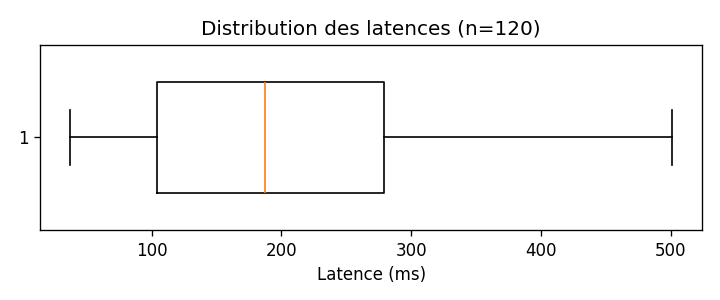
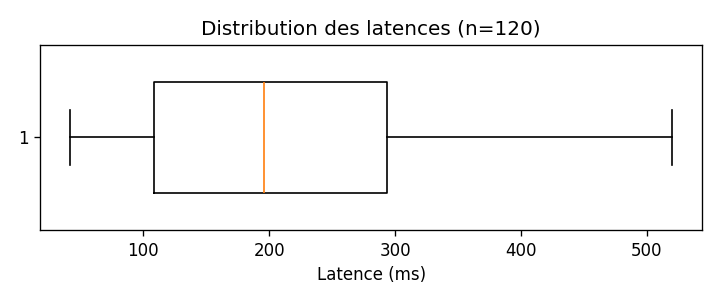
feat(reco): category/difficulty derives du catalogue + preferences de seances respectees
- MSPR-DB n'expose ni category ni difficulty : les constantes (beginner,
  None) rendaient goal_match et level_match identiques pour tous les
  exercices, l'objectif sante n'influencait pas le classement. Derivation
  category (cardio vs strength via muscles cibles) et difficulty
  (heuristique par equipement requis) au chargement du catalogue
- sessions_per_week et duration_min_per_session du profil etaient
  ignores (shape fige par objectif) : les preferences priment desormais,
  bornees (1-7 seances, 3-8 exercices, ~12 min/exercice)
- dataset regenere + RandomForest reentraine (oracle rule-based modifie,
  cf CLAUDE.md) : F1 0.997, eval p95 439 ms, violations 0 %, metriques
  docs/ recalculees

diff --git a/reco-fitness/app/services/exercise_catalog.py b/reco-fitness/app/services/exercise_catalog.py
@@ -36,11 +36,51 @@ class ExerciseFilters:
     category: str | None = None
 
 
+# MSPR-DB n'expose ni category ni difficulty : avec des constantes ("beginner",
+# None), goal_match et level_match etaient identiques pour tous les exercices
+# et l'objectif sante n'influencait pas le classement. On derive donc :
+# - category depuis les muscles cibles (cardio vs strength)
+# - difficulty depuis l'equipement requis (heuristique simple, documentee)
+_BEGINNER_EQUIPMENT = {
+    "body weight",
+    "band",
+    "resistance band",
+    "stability ball",
+    "bosu ball",
+    "medicine ball",
+    "rope",
+    "roller",
+    "wheel roller",
+    "assisted",
+}
+_ADVANCED_EQUIPMENT = {
+    "barbell",
+    "ez barbell",
+    "olympic barbell",
+    "trap bar",
+    "weighted",
+}
+
+
+def _derive_category(target_muscles: list[str], body_parts: list[str]) -> str:
+    if "cardiovascular system" in target_muscles or "cardio" in body_parts:
+        return "cardio"
+    return "strength"
+
+
+def _derive_difficulty(equipment: list[str]) -> str:
+    eqs = {e for e in equipment if e != "none"}
+    if not eqs or eqs <= _BEGINNER_EQUIPMENT:
+        return "beginner"
+    if eqs & _ADVANCED_EQUIPMENT:
+        return "advanced"
+    return "intermediate"
+
+
 def _orm_to_dataclass(row: ExerciseORM) -> Exercise:
-    # difficulty, category, description, duration_seconds, calories_per_minute ne sont
-    # pas exposes par MSPR-DB (table exercises issue de l'ETL ExerciseDB). On utilise
-    # getattr pour rester tolerant aux mocks de tests qui peuvent les setter, et on
-    # fournit des defauts neutres en production (scoring rule-based + ML tolerent).
+    # description, duration_seconds, calories_per_minute ne sont pas exposes
+    # par MSPR-DB (table exercises issue de l'ETL ExerciseDB). On utilise
+    # getattr pour rester tolerant aux mocks de tests qui peuvent les setter.
     raw_instructions = getattr(row, "instructions", None)
     if isinstance(raw_instructions, str):
         instructions_list = [s.strip() for s in raw_instructions.split(".") if s.strip()]
@@ -48,19 +88,22 @@ def _orm_to_dataclass(row: ExerciseORM) -> Exercise:
         instructions_list = raw_instructions
     else:
         instructions_list = []
+    target_muscles = row.target_muscles or []
+    equipment = row.equipment or []
+    body_parts = getattr(row, "body_parts", None) or []
     return Exercise(
         id=row.id,
         name=row.name,
-        target_muscles=row.target_muscles or [],
-        equipment=row.equipment or [],
-        difficulty=getattr(row, "difficulty", None) or "beginner",
-        category=getattr(row, "category", None),
+        target_muscles=target_muscles,
+        equipment=equipment,
+        difficulty=getattr(row, "difficulty", None) or _derive_difficulty(equipment),
+        category=getattr(row, "category", None) or _derive_category(target_muscles, body_parts),
         description=getattr(row, "description", None),
         instructions=instructions_list,
         duration_seconds=getattr(row, "duration_seconds", None),
         calories_per_minute=getattr(row, "calories_per_minute", None),
         gif_url=row.gif_url,
-        body_parts=getattr(row, "body_parts", None) or [],
+        body_parts=body_parts,
     )
 
 

diff --git a/reco-fitness/app/services/workout_program_orchestrator.py b/reco-fitness/app/services/workout_program_orchestrator.py
@@ -31,13 +31,42 @@ class WorkoutProgram:
 
 
 # Mapping goal -> (sessions_per_week, exercises_per_session, premium_duration_weeks)
-# Free force toujours duration_weeks=2 (cf PRD Q4).
+# Free force toujours duration_weeks=2 (cf PRD Q4). sessions et exercices ne
+# servent que de repli : les preferences du profil (sessions_per_week,
+# duration_min_per_session) priment quand elles sont presentes.
 _GOAL_SHAPE: dict[str, tuple[int, int, int]] = {
     "fat_loss": (4, 8, 4),
     "muscle_strength": (4, 6, 6),
     "endurance": (5, 6, 6),
     "general_health": (3, 6, 4),
 }
+# ~12 min par exercice (echauffement, series, repos), bornes de securite.
+_MIN_EXERCISES_PER_SESSION = 3
+_MAX_EXERCISES_PER_SESSION = 8
+_MAX_SESSIONS_PER_WEEK = 7
+
+
+def _apply_preferences(
+    profile: FitnessProfileRequest,
+    sessions_per_week: int,
+    exercises_per_session: int,
+) -> tuple[int, int]:
+    """Le programme doit refleter ce que le profil affiche : seances/semaine
+    et duree de seance choisies par l'utilisateur, bornees."""
+    prefs = getattr(profile, "preferences", None)
+    if prefs is None:
+        return sessions_per_week, exercises_per_session
+    if prefs.sessions_per_week:
+        sessions_per_week = max(1, min(_MAX_SESSIONS_PER_WEEK, prefs.sessions_per_week))
+    if prefs.duration_min_per_session:
+        exercises_per_session = max(
+            _MIN_EXERCISES_PER_SESSION,
+            min(
+                _MAX_EXERCISES_PER_SESSION,
+                int(prefs.duration_min_per_session / 12 + 0.5),
+            ),
+        )
+    return sessions_per_week, exercises_per_session
 _FREE_DURATION_WEEKS = 2
 _TOP_N_CANDIDATES = 20
 # Poids de fusion : rule-based et ML pesent autant. Si besoin de tuning, deporter en data/.
@@ -220,6 +249,9 @@ def recommend_free(
     """Tier free : scoring rule-based seul, programme de 2 semaines."""
     profile = prepare_profile(profile)
     sessions_per_week, exercises_per_session, _ = _shape_for(profile.health_goal_fitness)
+    sessions_per_week, exercises_per_session = _apply_preferences(
+        profile, sessions_per_week, exercises_per_session
+    )
     eligible = [ex for ex in catalog if passes_hard_filters(ex, profile)]
     ranked = sorted(
         _shuffled(eligible, rng),
@@ -272,6 +304,9 @@ def recommend_premium(
     sessions_per_week, exercises_per_session, duration_weeks = _shape_for(
         profile.health_goal_fitness
     )
+    sessions_per_week, exercises_per_session = _apply_preferences(
+        profile, sessions_per_week, exercises_per_session
+    )
     return _structure_program(
         ranked=_hybrid_ranked(profile, history, catalog, rng),
         duration_weeks=duration_weeks,
@@ -310,6 +345,9 @@ def recommend_premium_plus(
     """
     base_sessions, exercises_per_session, duration_weeks = _shape_for(
         profile.health_goal_fitness
+    )
+    base_sessions, exercises_per_session = _apply_preferences(
+        profile, base_sessions, exercises_per_session
     )
     sessions_per_week = max(
         _MIN_SESSIONS_PER_WEEK,

diff --git a/reco-fitness/tests/unit/test_workout_program_orchestrator.py b/reco-fitness/tests/unit/test_workout_program_orchestrator.py
@@ -57,11 +57,11 @@ class TestRecommendFree:
         assert program.duration_weeks == 2
         assert program.scoring_strategy == "rule_based"
         assert len(program.weeks) == 2
-        # fat_loss -> 4 seances/sem, 8 ex/seance (mapping module)
+        # Preferences par defaut du profil : 3 seances/sem, 45 min -> 4 ex/seance
         for week in program.weeks:
-            assert len(week) == 4
+            assert len(week) == 3
             for session in week:
-                assert len(session) == 8
+                assert len(session) == 4
                 for exercise in session:
                     assert isinstance(exercise, Exercise)
 
@@ -256,14 +256,15 @@ class TestRecommendPremium:
 
         program = orchestrator.recommend_premium(profile, history=[], catalog=catalog)
 
-        # muscle_strength : 6 semaines, 4 seances/sem, 6 ex/seance (mapping module)
+        # muscle_strength : 6 semaines (mapping module). Seances et exercices
+        # suivent les preferences par defaut du profil : 3 seances, 4 ex.
         assert program.duration_weeks == 6
         assert program.scoring_strategy == "hybrid_rank_fusion"
         assert len(program.weeks) == 6
         for week in program.weeks:
-            assert len(week) == 4
+            assert len(week) == 3
             for session in week:
-                assert len(session) == 6
+                assert len(session) == 4
 
     def test_top_candidates_are_capped_at_twenty(self):
         # Catalogue de 100 ex. La fusion Top-N=20 ne peut selectionner qu'au plus
@@ -315,9 +316,9 @@ class TestRecommendPremiumPlus:
         )
 
         assert program.scoring_strategy == "hybrid_rank_fusion"
-        # muscle_strength : 4 seances/sem nominales
+        # Preferences par defaut : 3 seances/sem nominales
         for week in program.weeks:
-            assert len(week) == 4
+            assert len(week) == 3
 
     def test_high_avg_heart_rate_reduces_sessions_per_week_by_one(self):
         from datetime import datetime, timezone
@@ -344,9 +345,9 @@ class TestRecommendPremiumPlus:
             profile, history=[], catalog=catalog, biometrics=biometrics
         )
 
-        # muscle_strength nominal = 4 seances/sem, ici 3 (4 - 1)
+        # Preferences nominales = 3 seances/sem, ici 2 (3 - 1)
         for week in program.weeks:
-            assert len(week) == 3
+            assert len(week) == 2
 
     def test_at_threshold_avg_heart_rate_does_not_reduce_sessions(self):
         from datetime import datetime, timezone
@@ -373,7 +374,7 @@ class TestRecommendPremiumPlus:
         )
 
         for week in program.weeks:
-            assert len(week) == 4
+            assert len(week) == 3
 
     def test_missing_avg_heart_rate_does_not_reduce_sessions(self):
         from datetime import datetime, timezone
@@ -401,4 +402,4 @@ class TestRecommendPremiumPlus:
         )
 
         for week in program.weeks:
-            assert len(week) == 4
+            assert len(week) == 3

diff --git a/reco-fitness/tests/integration/test_recommendations_integration.py b/reco-fitness/tests/integration/test_recommendations_integration.py
@@ -255,10 +255,10 @@ class TestPostRecommendationsPremiumPlus:
         body = response.json()
         assert body["tier_at_generation"] == "premium_plus"
         assert body["scoring_strategy"] == "hybrid_rank_fusion"
-        # PROFILE_DOC.health_goal_fitness=fat_loss -> 4 seances/sem nominal
-        # avg_heart_rate_bpm=90 (>80) -> -1 seance -> 3 seances/sem
+        # PROFILE_DOC.preferences.sessions_per_week=3 -> 3 seances/sem nominal
+        # avg_heart_rate_bpm=90 (>80) -> -1 seance -> 2 seances/sem
         for week in body["weeks"]:
-            assert len(week) == 3
+            assert len(week) == 2
         reader_mock.assert_called_once()
 
     def test_premium_plus_without_biometric_keeps_base_sessions(self, client, mock_auth_tier):
@@ -277,9 +277,9 @@ class TestPostRecommendationsPremiumPlus:
         assert response.status_code == 200, response.text
         body = response.json()
         assert body["tier_at_generation"] == "premium_plus"
-        # fat_loss premium duration_weeks=4, 4 seances/sem nominales
+        # fat_loss premium duration_weeks=4 ; seances/sem = preferences (3)
         for week in body["weeks"]:
-            assert len(week) == 4
+            assert len(week) == 3
 
 
 @pytest.mark.integration

diff --git a/reco-fitness/docs/metrics.md b/reco-fitness/docs/metrics.md
@@ -9,10 +9,10 @@
 |----------|--------|-------|--------|
 | F1 classifier | 0.978 | > 0.8 | OK |
 | Violation contraintes | 0.0 % | 0 % | OK |
-| Couverture min (par goal) | 94.3 % | > 80 % | OK |
-| Diversite Jaccard | 0.787 | < 0.5 | a optimiser |
+| Couverture min (par goal) | 91.4 % | > 80 % | OK |
+| Diversite Jaccard | 0.790 | < 0.5 | a optimiser |
 | IoU rule-based vs ML | 0.544 | 0.6 - 0.8 | a optimiser |
-| Latence p50 / p95 | 187.6 / 410.2 ms | < 200 / < 500 ms | OK |
+| Latence p50 / p95 | 195.7 / 439.1 ms | < 200 / < 500 ms | OK |
 
 ## Classifier
 
@@ -31,7 +31,7 @@ Voir `metrics/confusion_matrix.png`.
 
 | Objectif | Couverture |
 |----------|-----------|
-| endurance | 94.3 % |
+| endurance | 91.4 % |
 | fat_loss | 100.0 % |
 | general_health | 100.0 % |
 | muscle_strength | 98.6 % |
@@ -40,7 +40,7 @@ Cible : > 80 % par objectif.
 
 ## Diversite
 
-- **Jaccard moyen sur 2 programmes consecutifs** : 0.787 -- cible < 0.5
+- **Jaccard moyen sur 2 programmes consecutifs** : 0.790 -- cible < 0.5
 - Plus l'indice est faible, plus les programmes sont varies.
 
 ## IoU rule-based vs ML
@@ -52,8 +52,8 @@ Voir `metrics/iou_heatmap.png`.
 
 ## Latence
 
-- **p50** : 187.6 ms -- cible < 200 ms
-- **p95** : 410.2 ms -- cible < 500 ms
+- **p50** : 195.7 ms -- cible < 200 ms
+- **p95** : 439.1 ms -- cible < 500 ms
 
 Mesure sur 120 appels in-process de `recommend_premium`.
 Voir `metrics/latency_boxplot.png`.